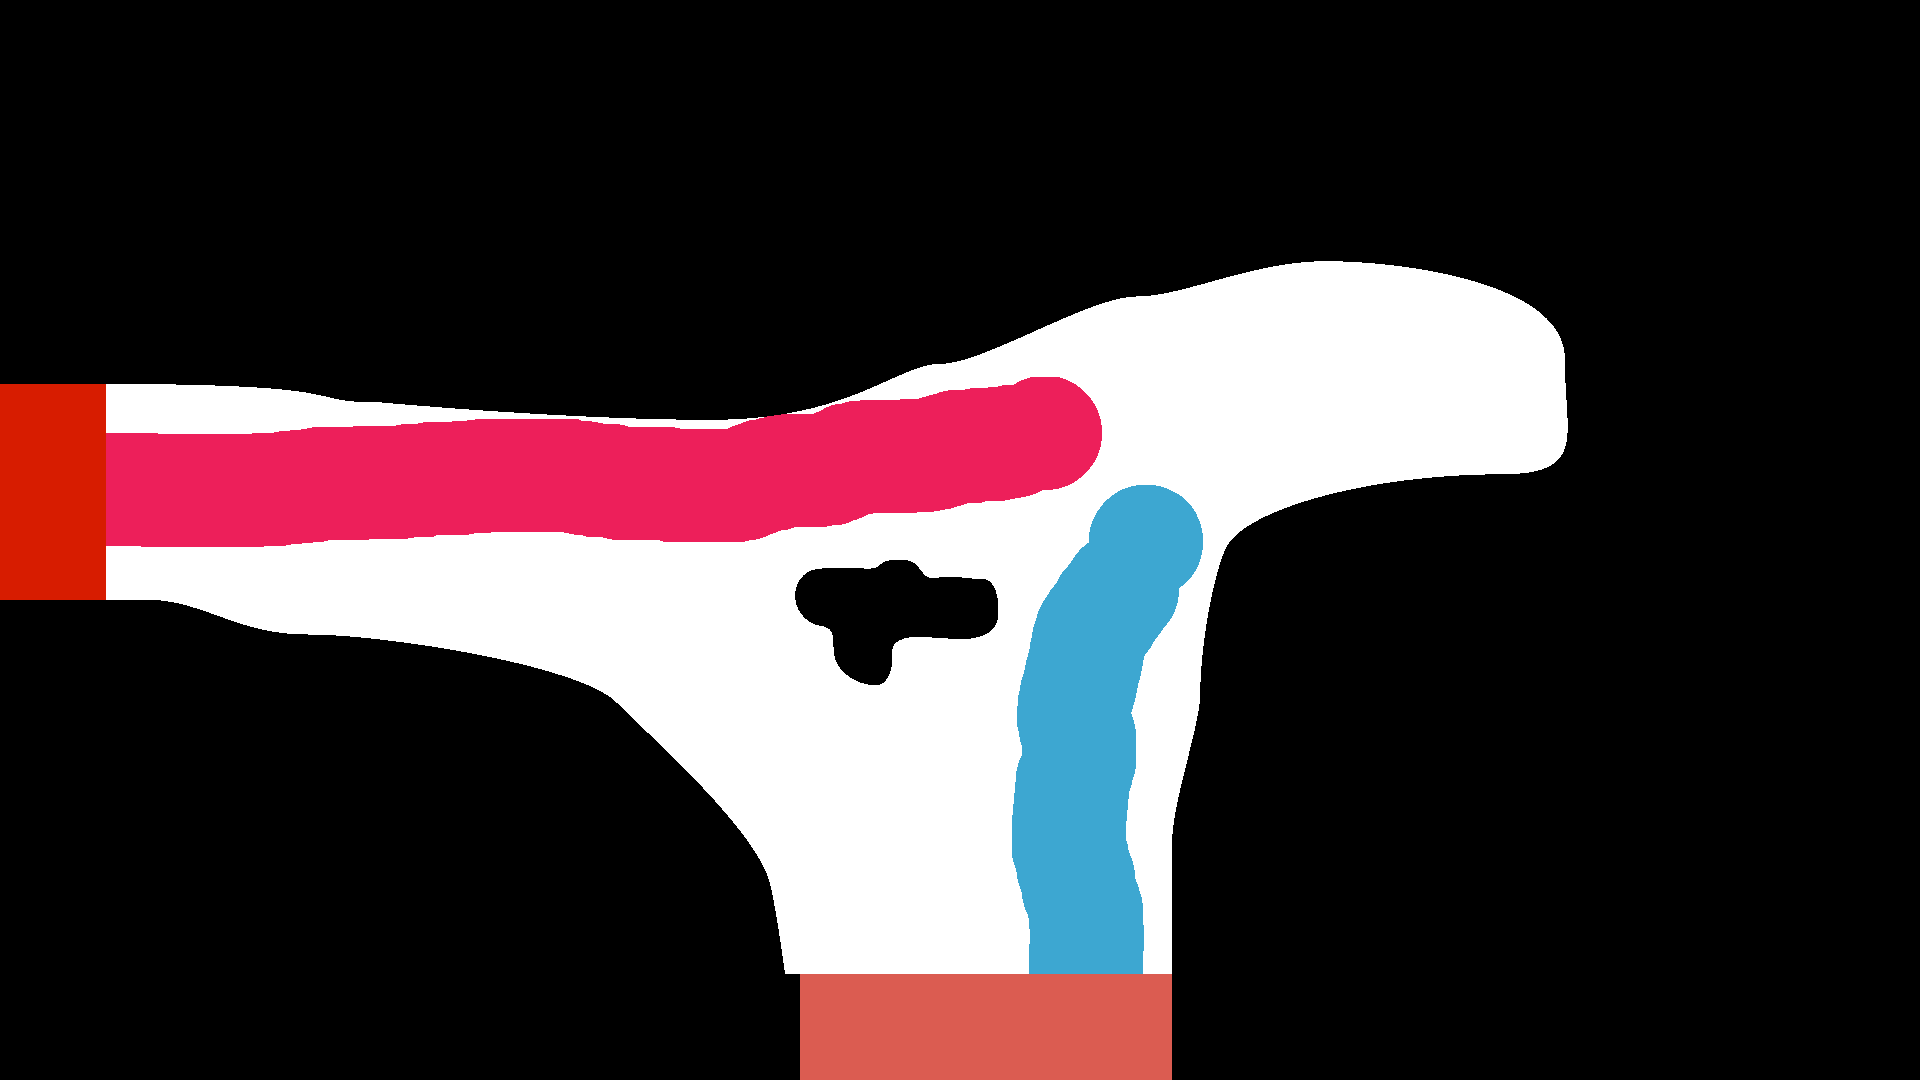
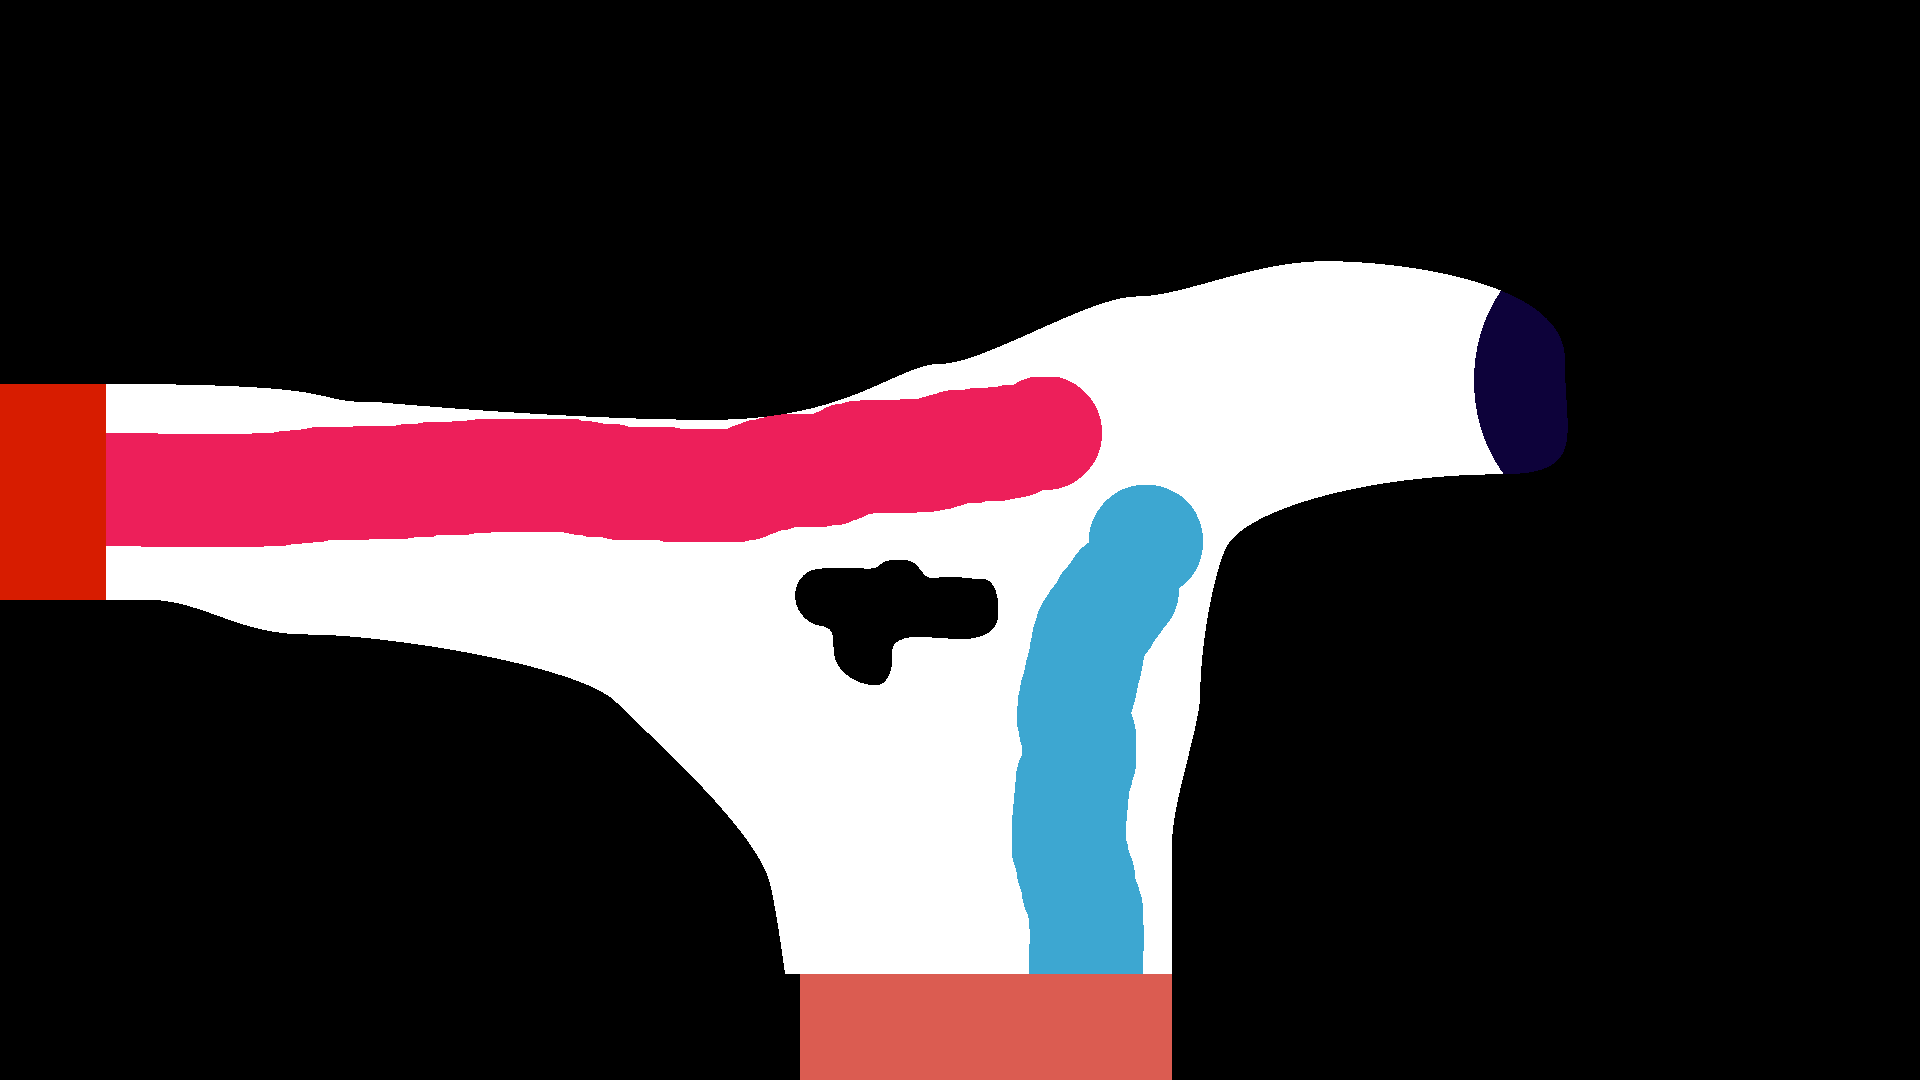
Adds an advisor's speech before the player starts moving.

Changed region(s): [[0.75, 0.275, 0.8438, 0.4583]]

diff --git a/carte/index.html b/carte/index.html
@@ -398,6 +398,9 @@
             , 0xC86D66: { goto: { mapId: "map4", entryId: "entry1" } }
             , 0x440803: { goto: { mapId: "map3", entryId: "entry2" } }
             , 0x422422: { goto: { mapId: "map1", entryId: "entry1" } }
+
+            , 0x0D023A: { advice: "C’est parti ! Je dois repérer des traces d’animaux…" }
+
         }
 
         var wetSeasonImages = {
@@ -587,32 +590,39 @@
             if (!destinationArea.blocking) {
                 position.x += moveDirection.x * moveSpeed
                 position.y += moveDirection.y * moveSpeed
+                executeArea()
+            }
+        }
+
+        function executeArea() {
+
+            var currentArea = area(position)
+
+            if (currentArea.goto) {
+                initMap(currentArea.goto.mapId, currentArea.goto.entryId)
             }
 
-            if (destinationArea.goto) {
-                initMap(destinationArea.goto.mapId, destinationArea.goto.entryId)
+            if (currentArea.goto) {
+                initMap(currentArea.goto.mapId, currentArea.goto.entryId)
             }
 
-            if (destinationArea.datasheet) {
-                updateDatasheet(destinationArea.datasheet)
+            if (currentArea.datasheet) {
+                updateDatasheet(currentArea.datasheet)
             }
 
-            if (destinationArea.track) {
+            if (currentArea.track) {
                 advisorState("onTrack")
-            } else if (destinationArea.fruit) {
+            } else if (currentArea.fruit) {
                 advisorState("onFruit")
                 document.getElementById("goShoot").onclick = function () {
-                    window.location.href = '../arrow?season=' + season + '&animal=' + destinationArea.fruit
+                    window.location.href = '../arrow?season=' + season + '&animal=' + currentArea.fruit
                 }
-
-
             } else {
                 advisorState("none")
             }
 
-            if (!destinationArea.blocking) {
-                updateAdvice(destinationArea.advice)
-            }
+            updateAdvice(currentArea.advice)
+
         }
 
         function advisorState(version) {
@@ -712,8 +722,6 @@
 
             var colorHexCode = red * 0x010000 + green * 0x000100 + blue * 0x000001
 
-            console.log({ position: position, colorHexCode: colorHexCode })
-
             var area = areasDescription[colorHexCode]
 
             if (!area) {
@@ -767,9 +775,8 @@
         }
 
         function hideHelp() {
-            updateAdvice("")
             document.getElementById("help").classList.remove("shown")
-            advisorState("none")
+            executeArea()
         }
 
         var imagesToBeLoaded = allSeasonsImages;
